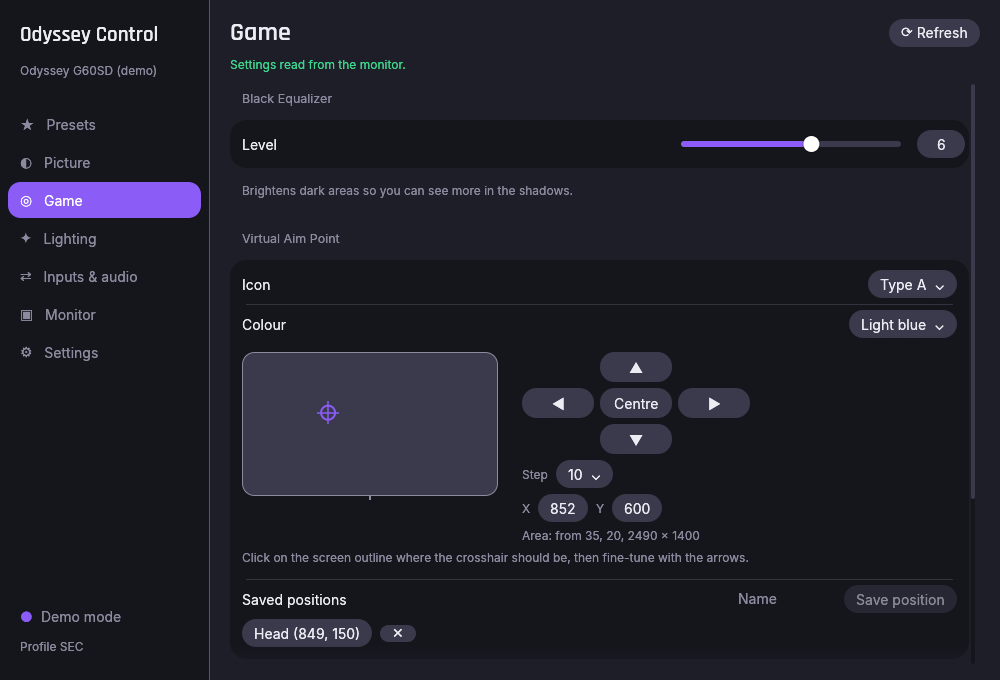
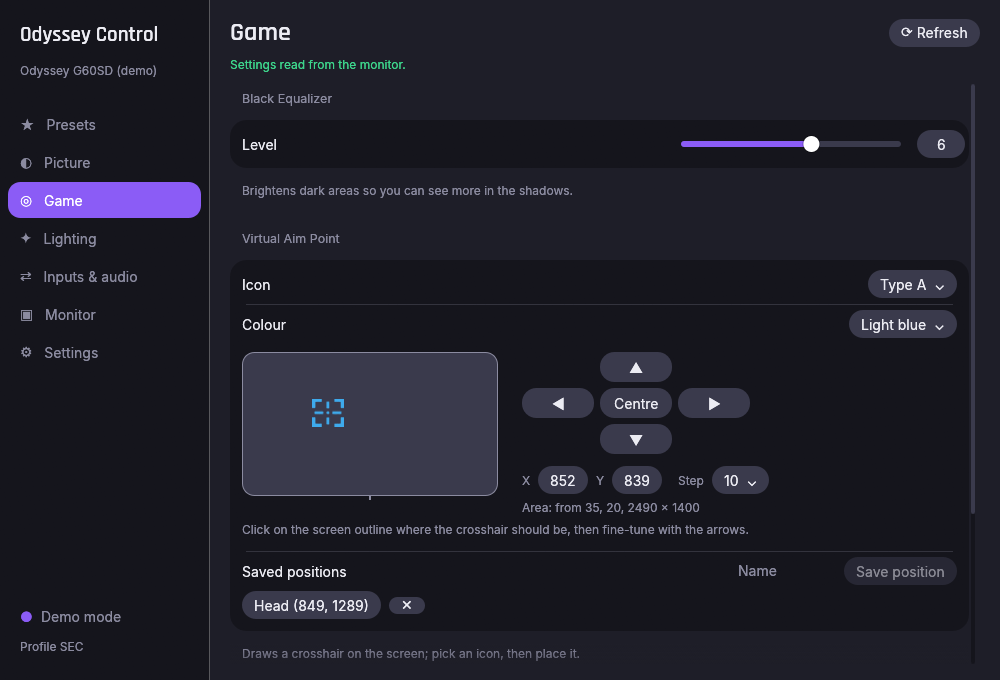
GUI: real crosshair on the pad, Y from the bottom, box kept while re-reading
The screen outline draws the sprite of the chosen icon type and colour, Y is
shown like a Cartesian axis (the firmware counts from the top), the step menu
sits beside X and Y, and an icon change keeps the last position on screen
until the new one is read.

diff --git a/src/gui/app.rs b/src/gui/app.rs
@@ -110,7 +110,11 @@ pub struct App {
     /// Bus the worker opens (None = the first Samsung monitor).
     bus: Option<u32>,
     aim_position: Option<Position>,
+    /// The icon changed: read the position again, keeping the old one on screen meanwhile.
+    aim_refresh: bool,
     aim_border: Option<Border>,
+    /// The six icons (type A then B, each light blue, red, white) drawn on the screen pad.
+    aim_icons: Vec<egui::TextureHandle>,
     /// Coordinates being typed for the aim point.
     aim_target: Option<Position>,
     aim_steps: u16,
@@ -168,7 +172,9 @@ impl App {
             confirm_delete: None,
             bus,
             aim_position: None,
+            aim_refresh: false,
             aim_border: None,
+            aim_icons: aim_icon_textures(&cc.egui_ctx),
             aim_target: None,
             aim_steps: 10,
             aim_name: String::new(),
@@ -314,7 +320,7 @@ impl App {
                             self.reread(features::dependents(feature.name));
                             if feature.name == "aim-point" {
                                 // A new icon may reset the position: read it again when shown.
-                                self.aim_position = None;
+                                self.aim_refresh = true;
                             }
                         }
                         Err(e) => {
@@ -351,7 +357,7 @@ impl App {
                         let text = self
                             .t("aim.at")
                             .replace("{x}", &position.x.to_string())
-                            .replace("{y}", &position.y.to_string());
+                            .replace("{y}", &self.shown_y(position.y).to_string());
                         self.message = Some(Message::Info(text, Instant::now()));
                     }
                     self.aim_position = Some(position);
@@ -935,8 +941,14 @@ impl App {
     /// Screen outline to click on, arrows, coordinates, centre button and saved positions for
     /// the crosshair. Its position and border are read when first shown (stateful registers,
     /// so never with the other features).
+    /// Y as the GUI shows it: counted from the bottom of the allowed area (see `Border::flip_y`).
+    fn shown_y(&self, y: u16) -> u16 {
+        self.aim_border.map_or(y, |b| b.flip_y(y))
+    }
+
     fn aim_pad(&mut self, ui: &mut egui::Ui) {
-        if self.aim_position.is_none() && !self.busy() {
+        if (self.aim_position.is_none() || self.aim_refresh) && !self.busy() {
+            self.aim_refresh = false;
             self.request(Request::AimState);
         }
         let allowed = self.action_allowed("aim-move") && self.action_allowed("aim-position");
@@ -950,12 +962,20 @@ impl App {
         };
         let mut moved = None;
         let mut target = None;
+        let icon = self
+            .reading("aim-point")
+            .and_then(|v| aim::icon_parts(v.current))
+            .and_then(|(kind, colour)| {
+                self.aim_icons
+                    .get((kind * aim::ICON_COLOURS + colour) as usize)
+            })
+            .cloned();
         ui.add_space(8.0);
         ui.horizontal(|ui| {
             ui.add_space(8.0);
             ui.add_enabled_ui(enabled, |ui| {
                 if let Some(b) = self.aim_border {
-                    if let Some(p) = screen_pad(ui, b, pos, self.aim_target) {
+                    if let Some(p) = screen_pad(ui, b, pos, self.aim_target, icon.as_ref()) {
                         target = Some(p);
                     }
                     ui.add_space(16.0);
@@ -998,22 +1018,24 @@ impl App {
                             gap(ui);
                             ui.end_row();
                         });
+                    ui.add_space(6.0);
                     ui.horizontal(|ui| {
+                        // Typed or dragged coordinates are written as soon as they settle,
+                        // like a slider. Y is shown from the bottom up.
+                        let mut t = self.aim_target.unwrap_or(pos);
+                        let mut shown = self.shown_y(t.y);
+                        ui.label(dim("X"));
+                        let rx = ui.add(egui::DragValue::new(&mut t.x).range(0..=aim::MAX_COORD));
+                        ui.label(dim("Y"));
+                        let ry = ui.add(egui::DragValue::new(&mut shown).range(0..=aim::MAX_COORD));
+                        t.y = self.shown_y(shown);
+                        ui.add_space(8.0);
                         ui.label(dim(self.t("aim.steps")));
                         let steps: Vec<(u16, String)> =
                             [1u16, 10, 50].map(|n| (n, n.to_string())).into();
                         if let Some(n) = theme::choice(ui, "aim-steps", self.aim_steps, &steps) {
                             self.aim_steps = n;
                         }
-                    });
-                    ui.horizontal(|ui| {
-                        // Typed or dragged coordinates are written as soon as they settle,
-                        // like a slider.
-                        let mut t = self.aim_target.unwrap_or(pos);
-                        ui.label(dim("X"));
-                        let rx = ui.add(egui::DragValue::new(&mut t.x).range(0..=aim::MAX_COORD));
-                        ui.label(dim("Y"));
-                        let ry = ui.add(egui::DragValue::new(&mut t.y).range(0..=aim::MAX_COORD));
                         let dragging = rx.dragged() || ry.dragged();
                         let settled = rx.drag_stopped()
                             || ry.drag_stopped()
@@ -1067,7 +1089,7 @@ impl App {
                         x: spot.x,
                         y: spot.y,
                     };
-                    let text = format!("{} ({}, {})", spot.name, spot.x, spot.y);
+                    let text = format!("{} ({}, {})", spot.name, spot.x, self.shown_y(spot.y));
                     let selected = here == pos;
                     let button = egui::Button::new(RichText::new(text).color(if selected {
                         Color32::WHITE
@@ -1471,6 +1493,7 @@ fn screen_pad(
     border: Border,
     pos: Position,
     draft: Option<Position>,
+    icon: Option<&egui::TextureHandle>,
 ) -> Option<Position> {
     let size = Vec2::new(256.0, 144.0);
     let (rect, response) = ui.allocate_exact_size(size, egui::Sense::click());
@@ -1511,10 +1534,29 @@ fn screen_pad(
         painter.circle_stroke(to_pad(d), 5.0, Stroke::new(1.0, p.warn));
     }
     let c = to_pad(pos);
-    let arm = Vec2::new(11.0, 0.0);
-    painter.line_segment([c - arm, c + arm], Stroke::new(1.5, p.accent));
-    painter.line_segment([c - arm.yx(), c + arm.yx()], Stroke::new(1.5, p.accent));
-    painter.circle_stroke(c, 6.0, Stroke::new(2.0, p.accent));
+    match icon {
+        Some(tex) => {
+            // The real crosshair, 28 px tall, dimmed with the rest when disabled.
+            let size = tex.size_vec2() * (28.0 / tex.size_vec2().y);
+            let tint = if ui.is_enabled() {
+                Color32::WHITE
+            } else {
+                Color32::WHITE.gamma_multiply(0.5)
+            };
+            painter.image(
+                tex.id(),
+                egui::Rect::from_center_size(c, size),
+                egui::Rect::from_min_max(egui::pos2(0.0, 0.0), egui::pos2(1.0, 1.0)),
+                tint,
+            );
+        }
+        None => {
+            let arm = Vec2::new(11.0, 0.0);
+            painter.line_segment([c - arm, c + arm], Stroke::new(1.5, p.accent));
+            painter.line_segment([c - arm.yx(), c + arm.yx()], Stroke::new(1.5, p.accent));
+            painter.circle_stroke(c, 6.0, Stroke::new(2.0, p.accent));
+        }
+    }
     if response.hovered() && ui.is_enabled() {
         ui.ctx().set_cursor_icon(egui::CursorIcon::Crosshair);
     }
@@ -1528,6 +1570,26 @@ fn screen_pad(
         x: border.x + (fx * f32::from(border.width)).round() as u16,
         y: border.y + (fy * f32::from(border.height)).round() as u16,
     })
+}
+
+/// The crosshair images in `ED` value order (1..=6), uploaded once.
+fn aim_icon_textures(ctx: &egui::Context) -> Vec<egui::TextureHandle> {
+    const ICONS: [(&str, &[u8]); 6] = [
+        ("a-blue", include_bytes!("../../assets/aim/a-blue.png")),
+        ("a-red", include_bytes!("../../assets/aim/a-red.png")),
+        ("a-white", include_bytes!("../../assets/aim/a-white.png")),
+        ("b-blue", include_bytes!("../../assets/aim/b-blue.png")),
+        ("b-red", include_bytes!("../../assets/aim/b-red.png")),
+        ("b-white", include_bytes!("../../assets/aim/b-white.png")),
+    ];
+    ICONS
+        .iter()
+        .filter_map(|(name, bytes)| {
+            let (rgba, w, h) = desktop::decode_png(bytes)?;
+            let image = ColorImage::from_rgba_unmultiplied([w as usize, h as usize], &rgba);
+            Some(ctx.load_texture(format!("aim-{name}"), image, egui::TextureOptions::LINEAR))
+        })
+        .collect()
 }
 
 impl eframe::App for App {

diff --git a/src/aim.rs b/src/aim.rs
@@ -109,6 +109,14 @@ pub struct Border {
 }
 
 impl Border {
+    /// The same row counted from the bottom of the border: the GUI shows Y like a Cartesian
+    /// axis (0 at the bottom) while the firmware counts from the top. Its own inverse.
+    pub fn flip_y(&self, y: u16) -> u16 {
+        let top = i32::from(self.y);
+        let bottom = top + i32::from(self.height) - 1;
+        (top + bottom - i32::from(y)).clamp(0, i32::from(MAX_COORD)) as u16
+    }
+
     pub fn center(&self) -> Position {
         Position {
             x: self.x + self.width / 2,
@@ -260,6 +268,19 @@ mod tests {
             let (k, c) = icon_parts(v).unwrap();
             assert_eq!(icon_value(k, c), v);
         }
+    }
+
+    #[test]
+    fn flip_y_mirrors_inside_the_border() {
+        let b = Border {
+            x: 35,
+            y: 36,
+            width: 1629,
+            height: 407,
+        };
+        assert_eq!(b.flip_y(36), 442);
+        assert_eq!(b.flip_y(442), 36);
+        assert_eq!(b.flip_y(b.flip_y(239)), 239);
     }
 
     #[test]

diff --git a/CHANGELOG.md b/CHANGELOG.md
@@ -13,7 +13,9 @@ All notable changes to this project are documented here. The format follows
   for both themes (`*_light.png`). The theme (system, light or dark) is chosen in Settings.
 - Aim point in the GUI: the icon is chosen as type (A or B) and colour; the arrows sit around
   the Centre button and move by exactly the chosen number of units (1, 10 or 50); typed
-  coordinates are written as soon as they settle, so the Apply button is gone.
+  coordinates are written as soon as they settle, so the Apply button is gone. The screen
+  outline shows the real crosshair of the chosen type and colour, Y counts from the bottom
+  like a Cartesian axis, and the box stays open while the position is read again.
 
 ## [0.2.0] - 2026-11-06
 
